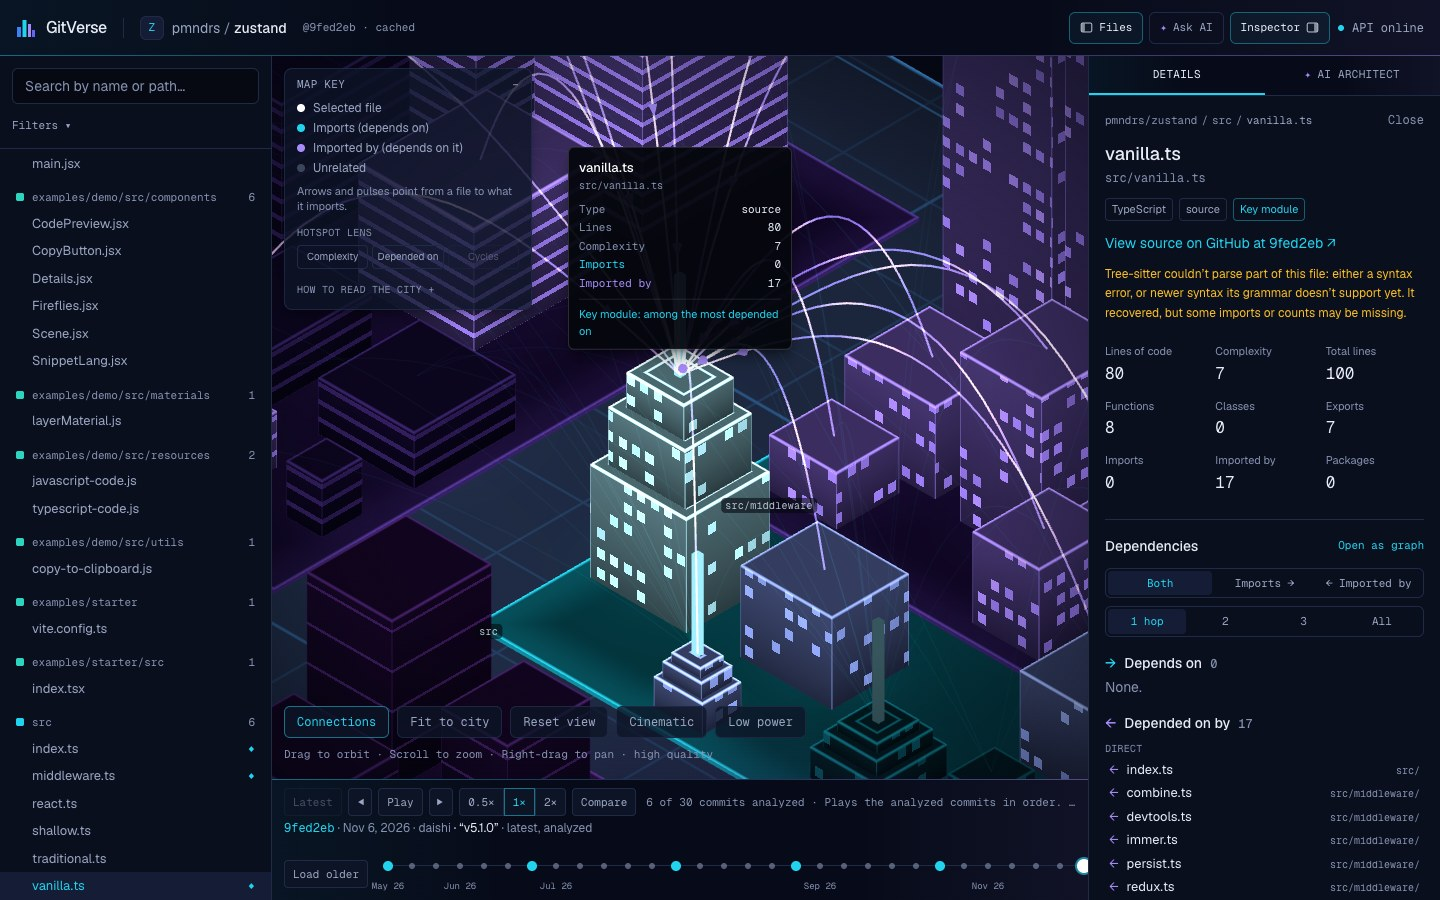
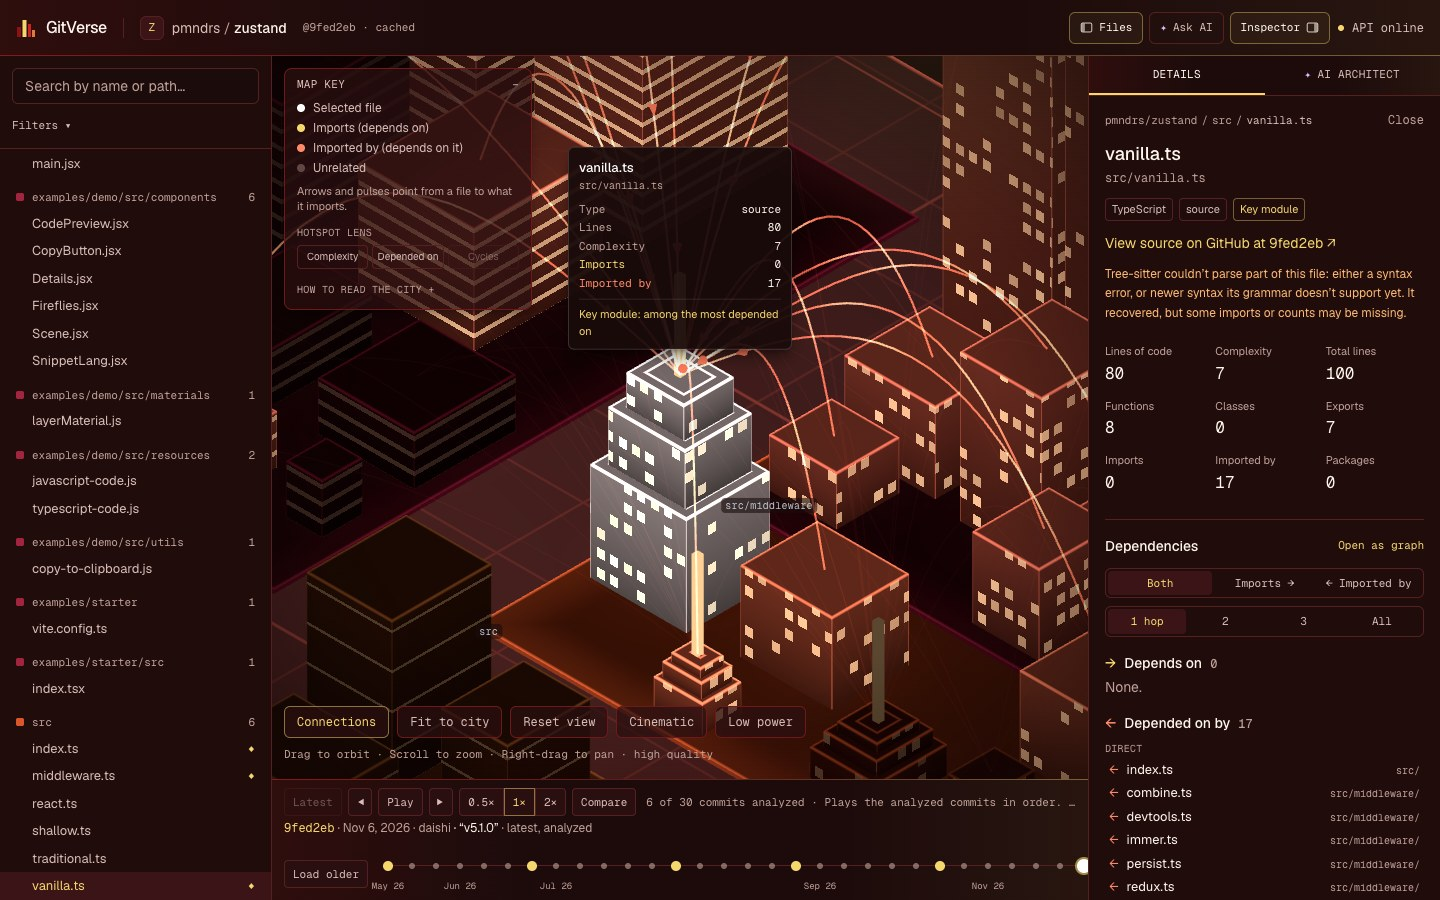
docs: document the Crimson Ember visual language and refresh screenshots

diff --git a/docs/ARCHITECTURE.md b/docs/ARCHITECTURE.md
@@ -102,6 +102,30 @@ the toolbar says so. Selecting a file always shows all its own connections, up t
 **Camera:** true orthographic isometric view. All pose maths is in `lib/city/camera.ts` with no
 Three.js dependency, and its tests check the results against a real Three.js camera.
 
+## Visual language: Crimson Ember
+
+The interface uses a warm palette defined once, as tokens in `frontend/src/app/globals.css`:
+a dark crimson base (`#190B0B`), burgundy surfaces, soft crimson borders, and baby yellow
+(`#F5D76E`) reserved for what matters: the primary action, the selection and what it depends on.
+Texture (fine vertical scanlines and film grain) and drifting light are decorative, sit behind
+content, and stop under reduced motion.
+
+Colour in the city always carries meaning, and the warm theme never overrides it:
+
+| Meaning | Colour |
+| --- | --- |
+| Selected file | White |
+| Imports (what the selection depends on) | Gold |
+| Imported by (what depends on the selection) | Coral |
+| Import cycle | Teal: deliberately cool, so a warning never blends into the warm city |
+| Named in an AI Architect answer | Lilac |
+| Time travel: added, modified, renamed | Green, orange, sky blue, with unchanged files muted |
+| District | One of eight warm hues, from the top-level folder |
+
+Windows glow gold in proportion to their building's brightness, so a dimmed building's windows
+dim with it and highlights stay readable. All text colours meet WCAG AA contrast on every
+surface; ember red is used only for surfaces and arcs, never for text.
+
 ## Frontend layout [built]
 
 ```
@@ -251,7 +275,7 @@ evidence only, with no explanation written on top. `/api/v1/meta` reports whethe
 are on.
 
 **In the explorer**, AI Architect is a tab beside the inspector, for real analyses only. An
-answer's files light up in the city (pink), its relationships are drawn as arcs where the import
+answer's files light up in the city (lilac), its relationships are drawn as arcs where the import
 really exists, "Focus camera" frames those buildings from the current angle, and each file opens
 in the inspector or on GitHub at the exact lines, pinned to the analyzed commit. Selecting a file
 makes it the subject of the next question. Answers stay tied to the commit they were asked about.

diff --git a/docs/PORTFOLIO.md b/docs/PORTFOLIO.md
@@ -66,7 +66,7 @@ FastAPI, Tree-sitter and NetworkX on the back end; Claude for the AI architect; 
 | 0:00 | Landing page | "GitVerse turns a GitHub repository into a 3D city. I'll paste a real one." |
 | 0:06 | Type `pmndrs/zustand`, press Analyze; progress steps tick by | "It downloads one commit, parses every file with Tree-sitter, and resolves the imports into a graph. It never runs the code." |
 | 0:16 | The city appears; slow orbit | "Folders are districts. Height is complexity, footprint is lines of code, and the beacons mark the files everything depends on." |
-| 0:26 | Click the tallest beacon, `vanilla.ts` | "Selecting a file traces its dependencies: violet arcs are the seventeen files that import it. The inspector shows its metrics and links to the source at this exact commit." |
+| 0:26 | Click the tallest beacon, `vanilla.ts` | "Selecting a file traces its dependencies: the coral arcs are the seventeen files that import it. The inspector shows its metrics and links to the source at this exact commit." |
 | 0:36 | Press "Open as graph", then back | "The same relationships as a graph, if you prefer it flat." |
 | 0:42 | Click an earlier commit on the timeline | "This is the repository's real history. Selecting an earlier commit analyzes it and animates the city: removed files sink, changed ones resize, and the panel lists exactly what changed." |
 | 0:54 | Press Latest, open Ask AI, choose "Which files are central to the architecture?" | "And I can ask questions. AI Architect answers from evidence the analysis found, marks what's verified versus inferred, and lights up the files it names." |
